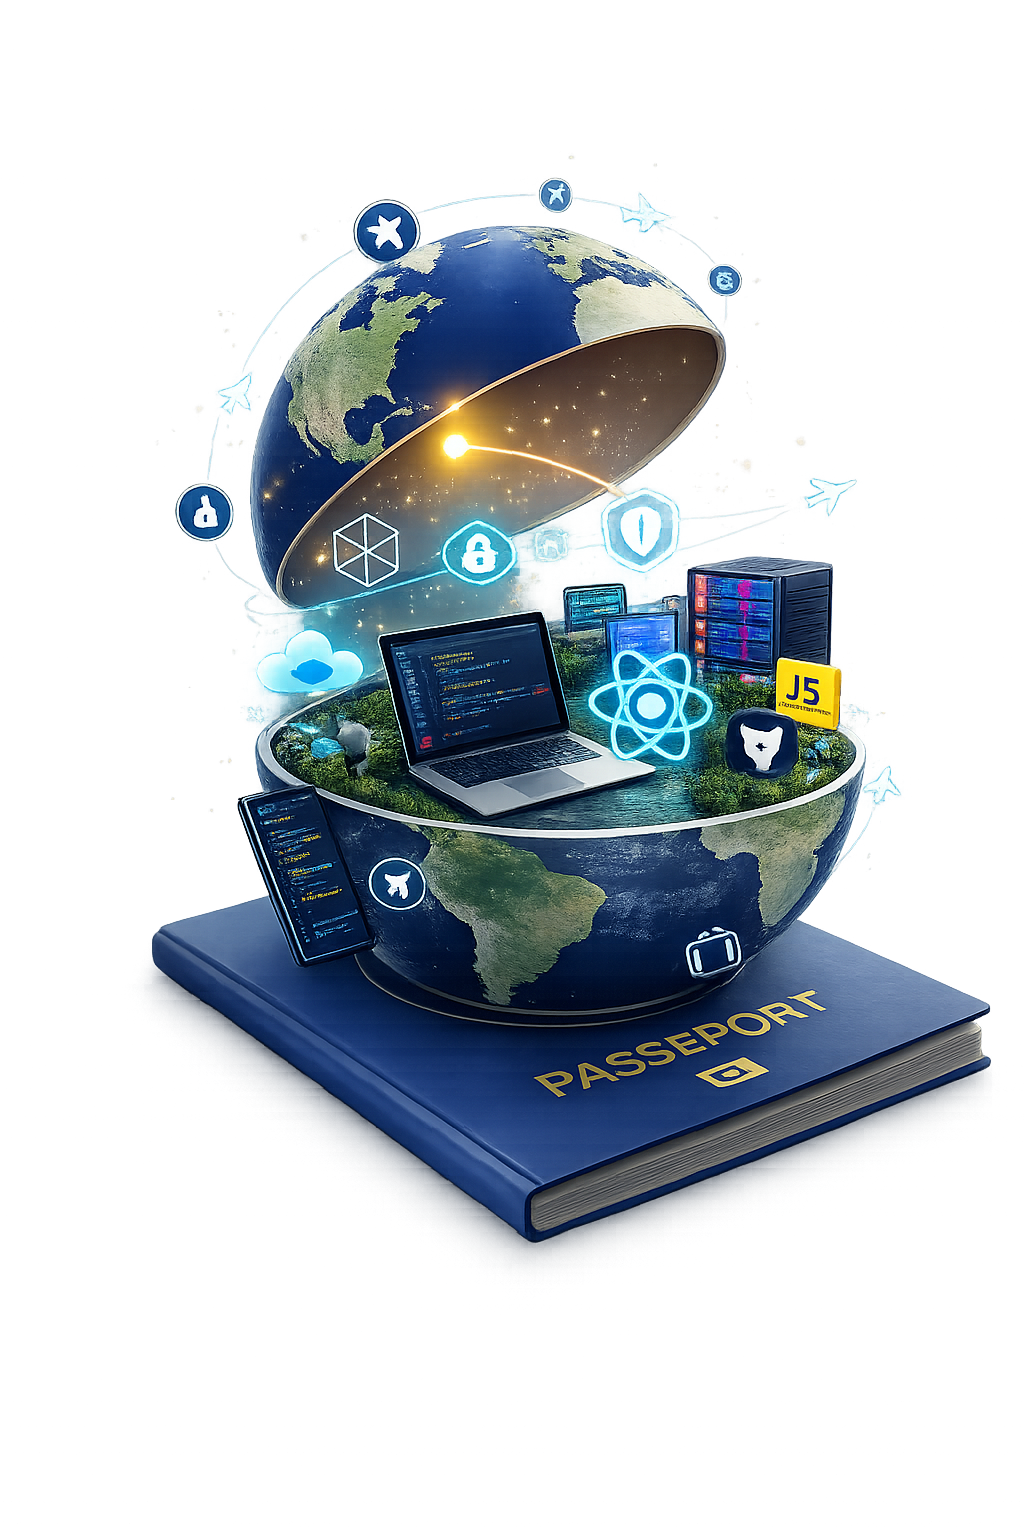
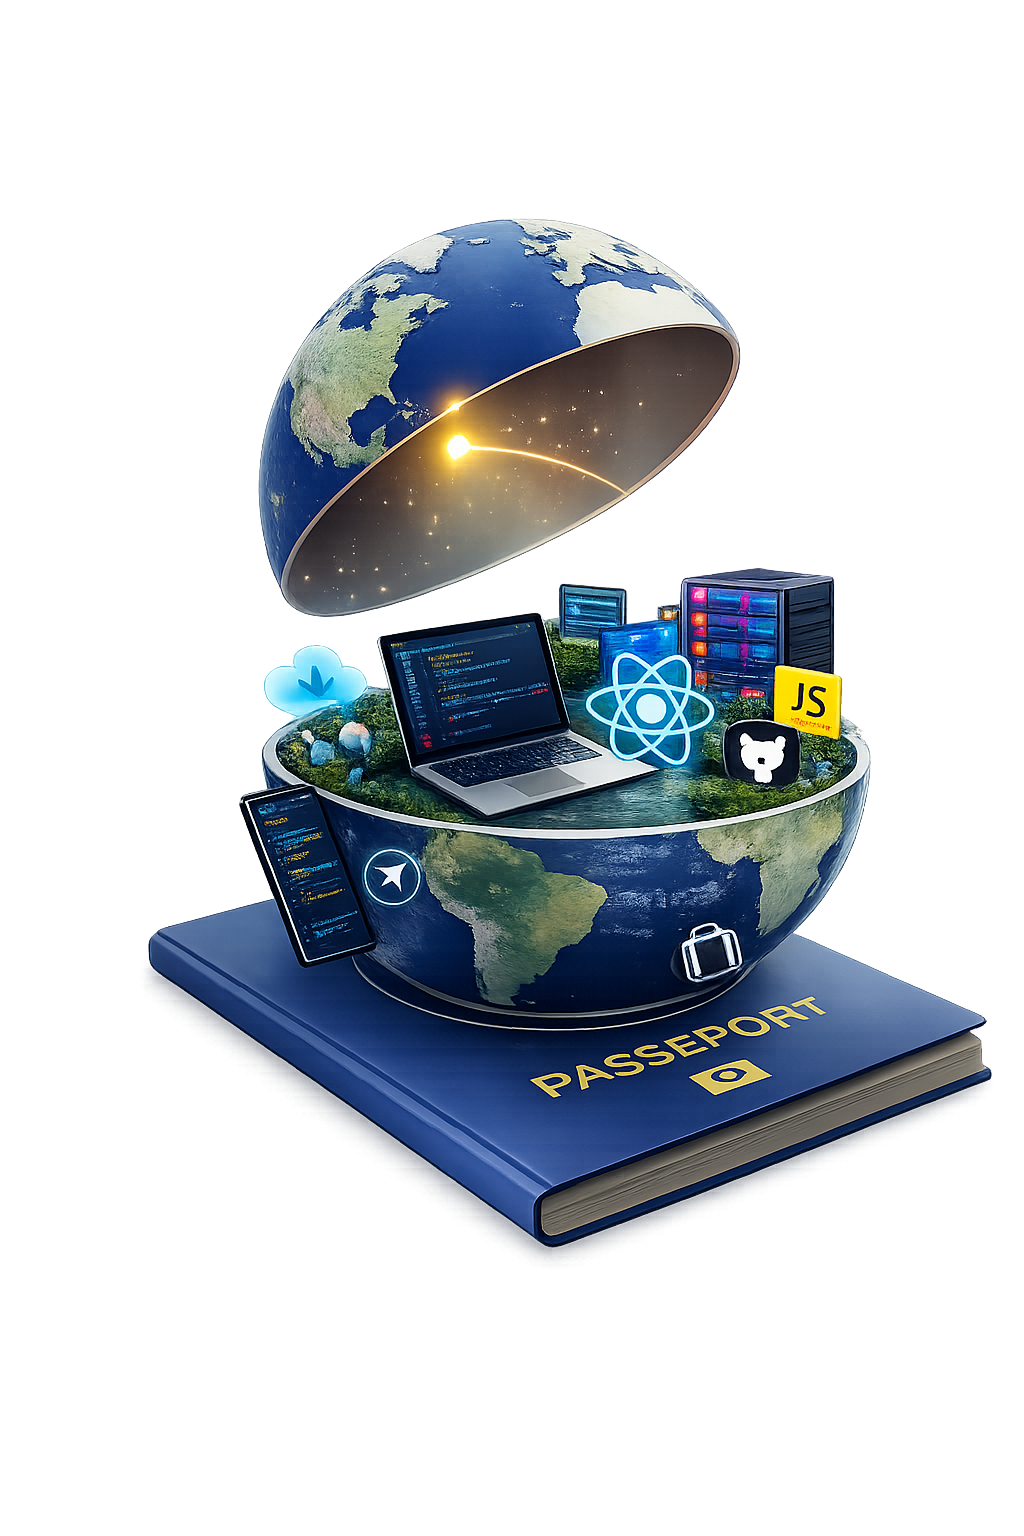
modified orbit

Changed region(s): [[0.125, 0.0938, 0.9688, 0.8125]]

diff --git a/src/components/HeroSection.tsx b/src/components/HeroSection.tsx
@@ -63,13 +63,12 @@ export default function HeroSection() {
           <p className="hero__kicker">ODYSSEY • Developer Journey</p>
 
           <h1 className="hero__title">
-            Bienvenue dans mon parcours<span className="hero__accent">de Développeuse Web 🌍</span>
+            Bienvenue dans <br />mon parcours de<span className="hero__accent"> Développeuse Web </span>
+          
           </h1>
 
           <p className="hero__subtitle">
             Je conçois des expériences web modernes, du design UI à l’API.
-            <br />
-            React • Node/Express • SQL • UX
           </p>
 
           <div className="hero__actions">

diff --git a/src/styles/HeroSection.css b/src/styles/HeroSection.css
@@ -232,9 +232,13 @@
 
 .orbit {
   position: absolute;
-  inset: 0;
+   top: 5%;              /* 👈 remonte l’orbite */
+  left: 45%;
+  width: 420px;          /* 👈 taille contrôlée */
+  height: 420px;
+  transform: translateX(-50%);
   z-index: 4;
-  pointer-events: none; /* on remet le click sur les icônes */
+  pointer-events: none;
 }
 
 .orbit__spinner {
@@ -251,7 +255,7 @@
   left: 50%;
   transform:
     rotate(var(--angle))
-    translateX(205px)
+    translateX(150px)
     rotate(calc(-1 * var(--angle)));
   background: transparent;
   border: 0;
